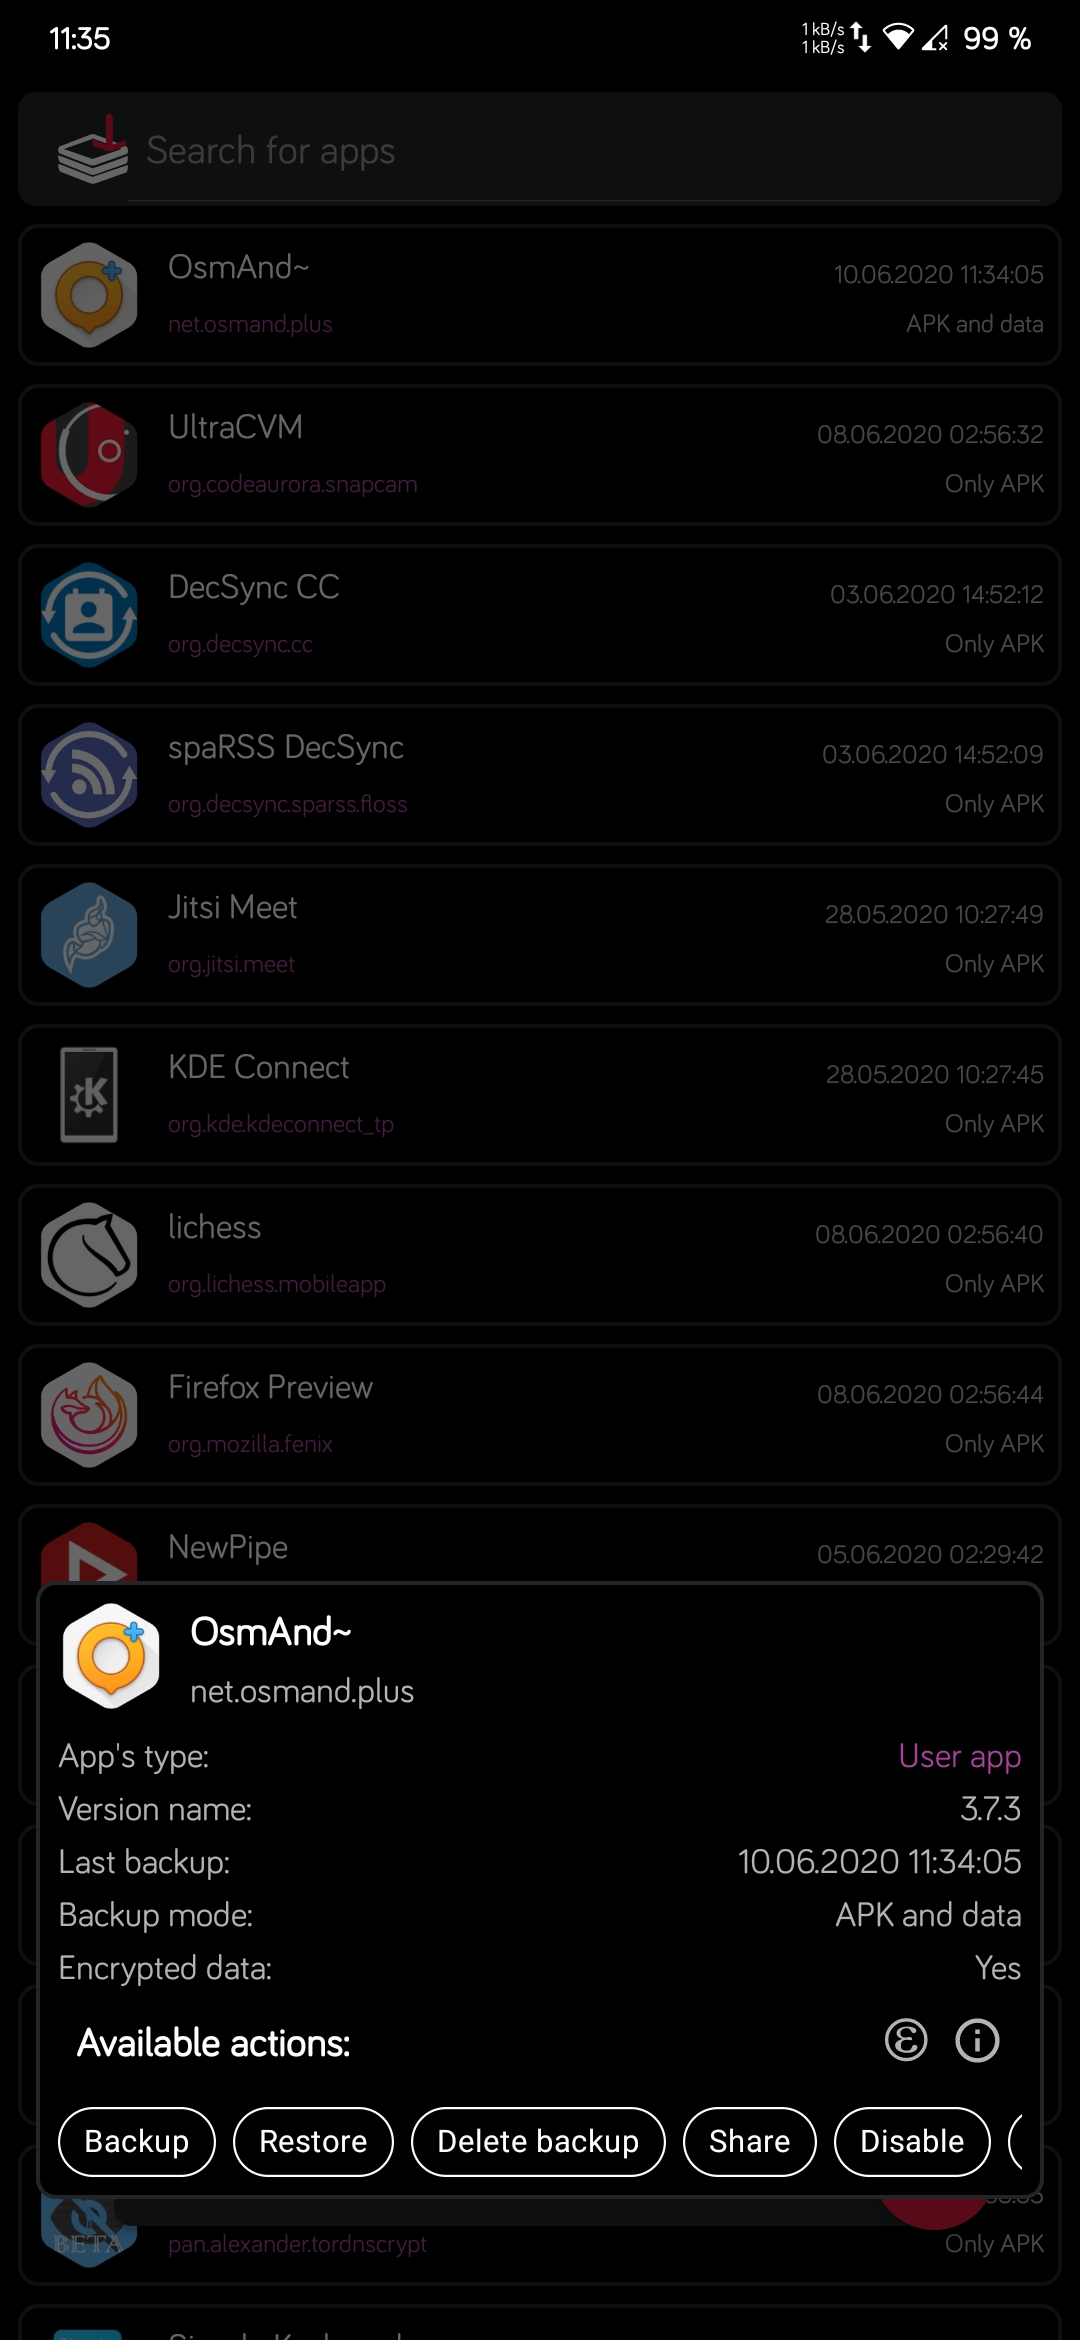
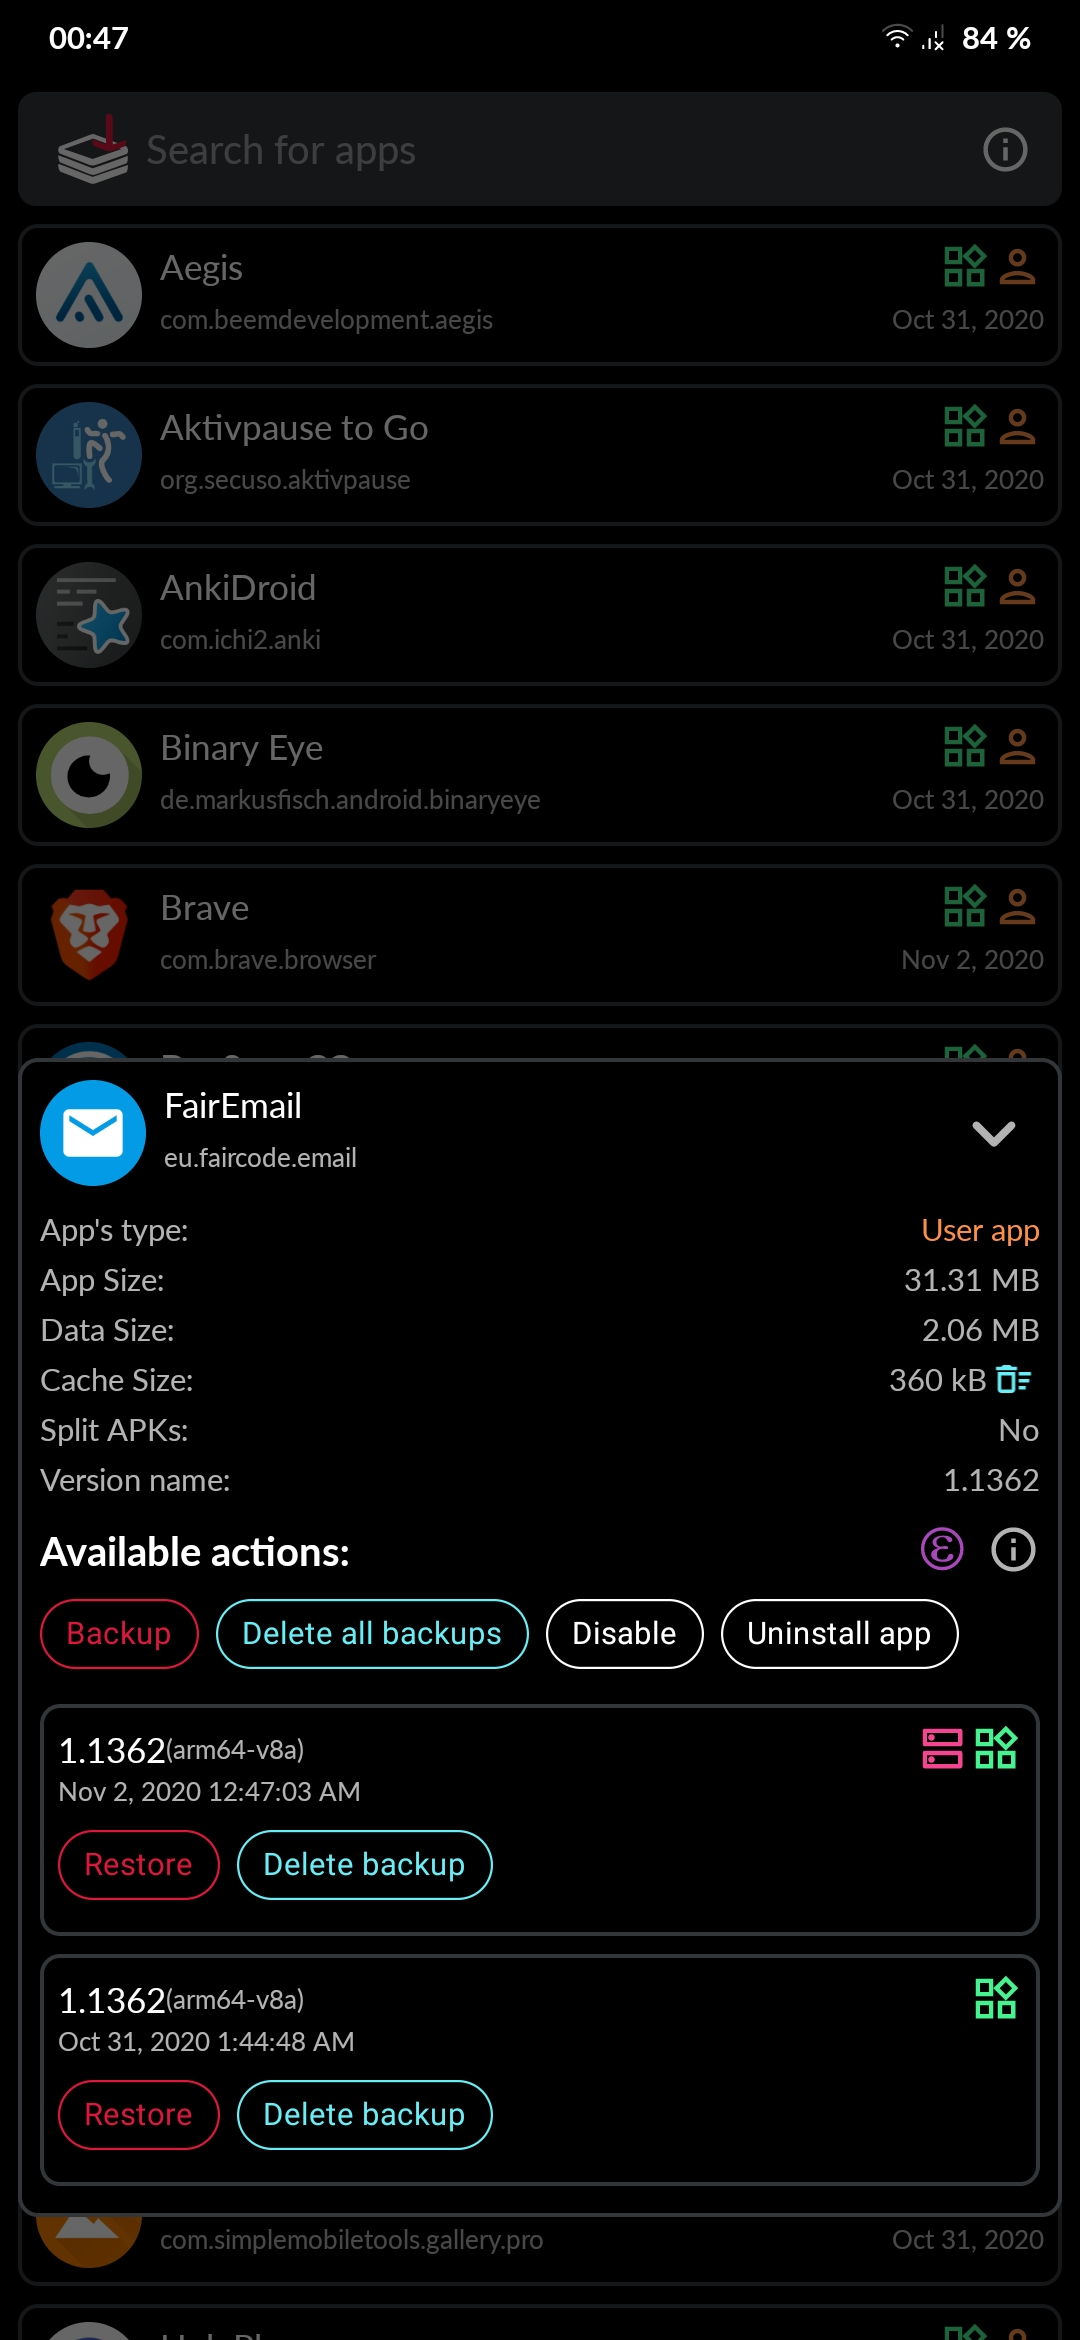
Release 4.0.0
* Added: Allow parallel batch tasks
* Added: Disable verification of apps over USB before installing and re-enable it afterwards
* Added: APK & Data checkboxes in Batch
* Added: Storage Access Framework support (Credits @tiefkuehlpizze)
* Added: Symlink/Pipe Support (Credits @hg42 and @tiefkuehlpizze)
* Added: Multi Backup support (Credits @tiefkuehlpizze)
* Added: HelpSheet to deliver help easily
* Added: More clear messages informing user about running processes
* Added: Arabic, Bosnian and Malayalam
* Updated: Tags system
* Updated: Use STOP/CONT to make sure no background processes ruin the backup (Credits @hg42 & @tiefkuehlpizze)
* Updated: Restructure Schedules
* Updated: Backups directory is /OABackupX now
* Updated: Backup Structure (Credits @tiefkuehlpizze)
* Updated: Whole new layouts for UI elements
* Updated: Encryption warning leads directly to its preferences
* Updated: Translations
* Fixed: Log viewer
* Fixed: Create Log when errors occur on backups
* Removed: Annimon stream dependency
* Too many other improvements, fixes and cleanups

diff --git a/app/src/main/java/com/machiav3lli/backup/activities/MainActivityX.java b/app/src/main/java/com/machiav3lli/backup/activities/MainActivityX.java
@@ -93,6 +93,7 @@ public class MainActivityX extends BaseActivity implements BatchConfirmDialog.Co
                 .setTimeout(20));
     }
 
+    // TODO DataModel to lay the ground for more abstraction
     private List<AppInfoX> appsList;
     // TODO optimize usage (maybe a map instead?)
     public List<String> apkCheckedList = new ArrayList<>();

diff --git a/README.md b/README.md
@@ -33,11 +33,11 @@ Our [Code of Conduct](COC.md) applies to the communication in the community same
 
 ## Encryption
 
-If enabled the data backup will be encrypted with AES 256 based on a password you can set in the settings, which you'll have to use when you want to restore the data. This way you can store your backups more securely, worrying less about their readability.  
+If enabled the data backup will be encrypted with AES256 based on a password you can set in the settings, which you'll have to use when you want to restore the data. This way you can store your backups more securely, worrying less about their readability.
 
 ## Compatibility
 
-Version 3.0.0 marks an overhaul of the backup proces and thus breaks compatibility with previous versions.
+Version 4.0.0 marks a full overhaul of the app structure and thus breaks compatibility with previous versions.
 
 Till the version 0.9.3 there's been no structural change in how the app handles backup/restore. So you could use that version to restore the old backups, then move to the newest version and renew your backups so that they'll stay compatible as long as the logic of the app doesn't radically change.
 
@@ -53,10 +53,9 @@ Till the version 0.9.3 there's been no structural change in how the app handles 
 - [x] Add support for protected data, external data and obb backups
 - [x] Exclude cache from data backups
 - [x] Add in-app backup encryption
-- [ ] Rewrite the logic of Backup/Restore: is a PROCESS (~70% done,WIP)
-- [ ] Switch to Storage Access Framework (WIP)
-  - till it's finished there'll be no support for external storage (e.g. SD-Cards, USB-OTG)
-- [ ] New android Scope Storage permissions compatibility (first: after android 11 release - if forced to)
+- [x] Rewrite the logic of Backup/Restore
+- [x] Switch to Storage Access Framework
+- [ ] New android Scope Storage permissions compatibility (WIP)
 - [ ] Add a Flashable-ZIP feature
 - [ ] You suggest!...
 
@@ -98,7 +97,7 @@ Placeholders icon foreground made by [Smashicons](https://www.flaticon.com/autho
 
 [Jens Stein](https://github.com/jensstein) for his unbelievably valuable work on OAndBackup.
 
-[Tiefkuehlpizze](https://github.com/Tiefkuehlpizze) for his active contribution to the project.
+[Nils](https://github.com/Tiefkuehlpizze) & [Harald](https://github.com/hg42) for their active contribution to the project.
 
 Features: Split-APK: [Tiefkuehlpizze](https://github.com/Tiefkuehlpizze), Rewrite Shellcommands [Tiefkuehlpizze](https://github.com/Tiefkuehlpizze).
 

diff --git a/CHANGELOG.md b/CHANGELOG.md
@@ -1,6 +1,31 @@
 changelog
 =========
 
+4.0.0 (02.11.2020)
+------------------
+
+* Added: Allow parallel batch tasks
+* Added: Disable verification of apps over USB before installing and re-enable it afterwards
+* Added: APK & Data checkboxes in Batch
+* Added: Storage Access Framework support (Credits @tiefkuehlpizze)
+* Added: Symlink/Pipe Support (Credits @hg42 and @tiefkuehlpizze)
+* Added: Multi Backup support (Credits @tiefkuehlpizze)
+* Added: HelpSheet to deliver help easily
+* Added: More clear messages informing user about running processes
+* Added: Arabic, Bosnian and Malayalam
+* Updated: Tags system
+* Updated: Use STOP/CONT to make sure no background processes ruin the backup (Credits @hg42 & @tiefkuehlpizze)
+* Updated: Restructure Schedules
+* Updated: Backups directory is /OABackupX now
+* Updated: Backup Structure (Credits @tiefkuehlpizze)
+* Updated: Whole new layouts for UI elements
+* Updated: Encryption warning leads directly to its preferences
+* Updated: Translations
+* Fixed: Log viewer
+* Fixed: Create Log when errors occur on backups
+* Removed: Annimon stream dependency
+* Too many other improvements, fixes and cleanups
+
 3.2.0 (23.09.2020)
 ------------------
 
